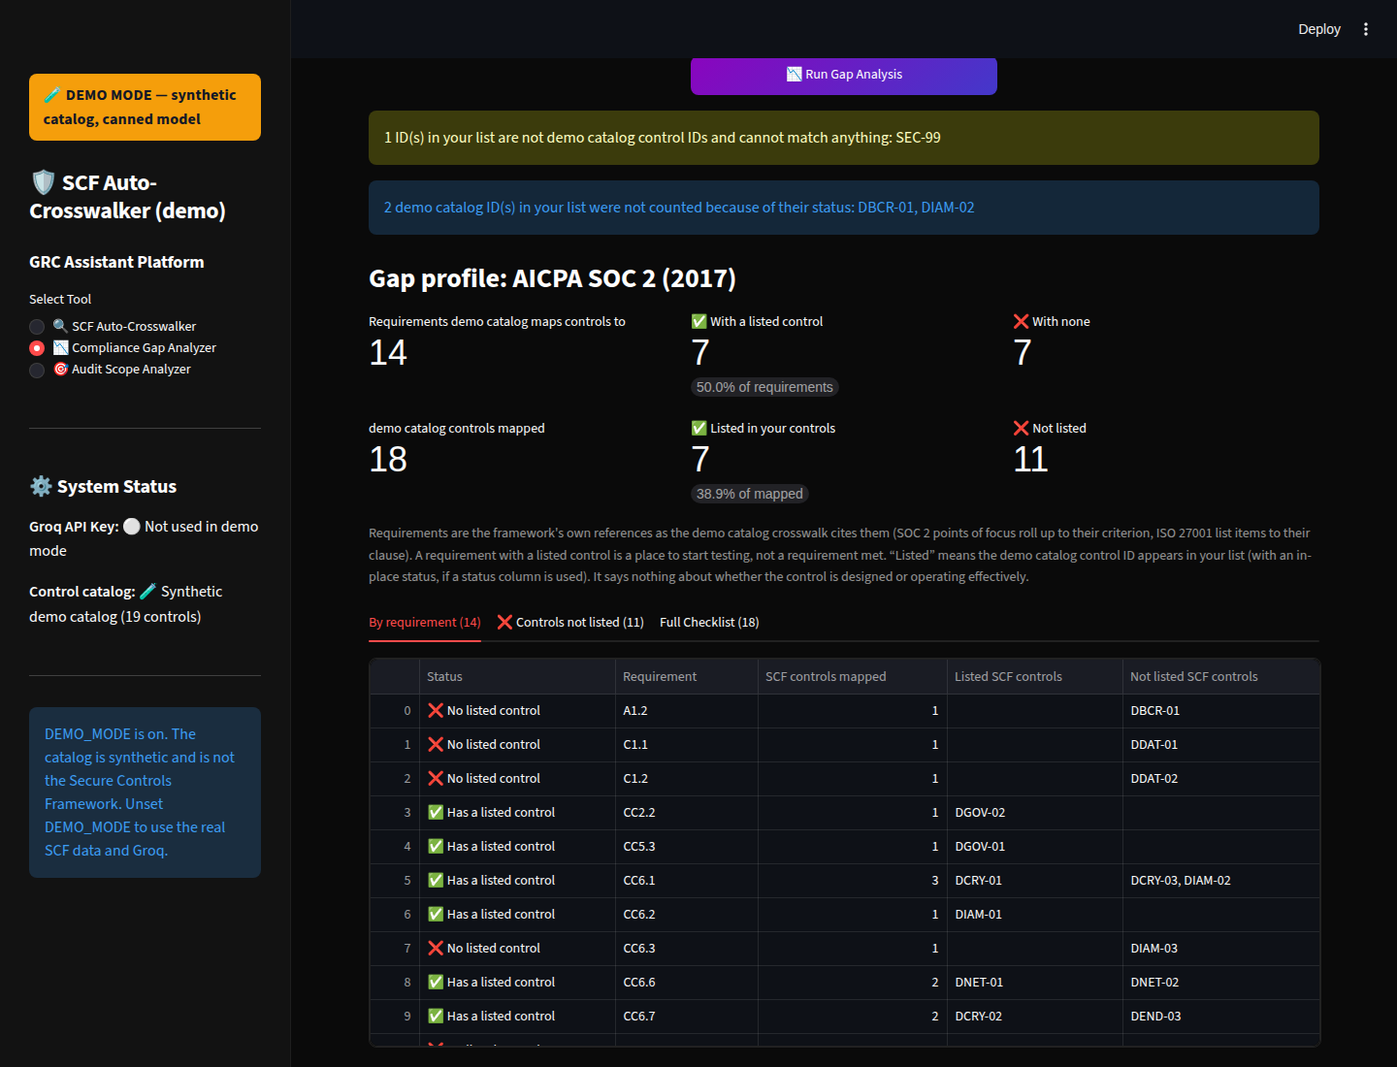
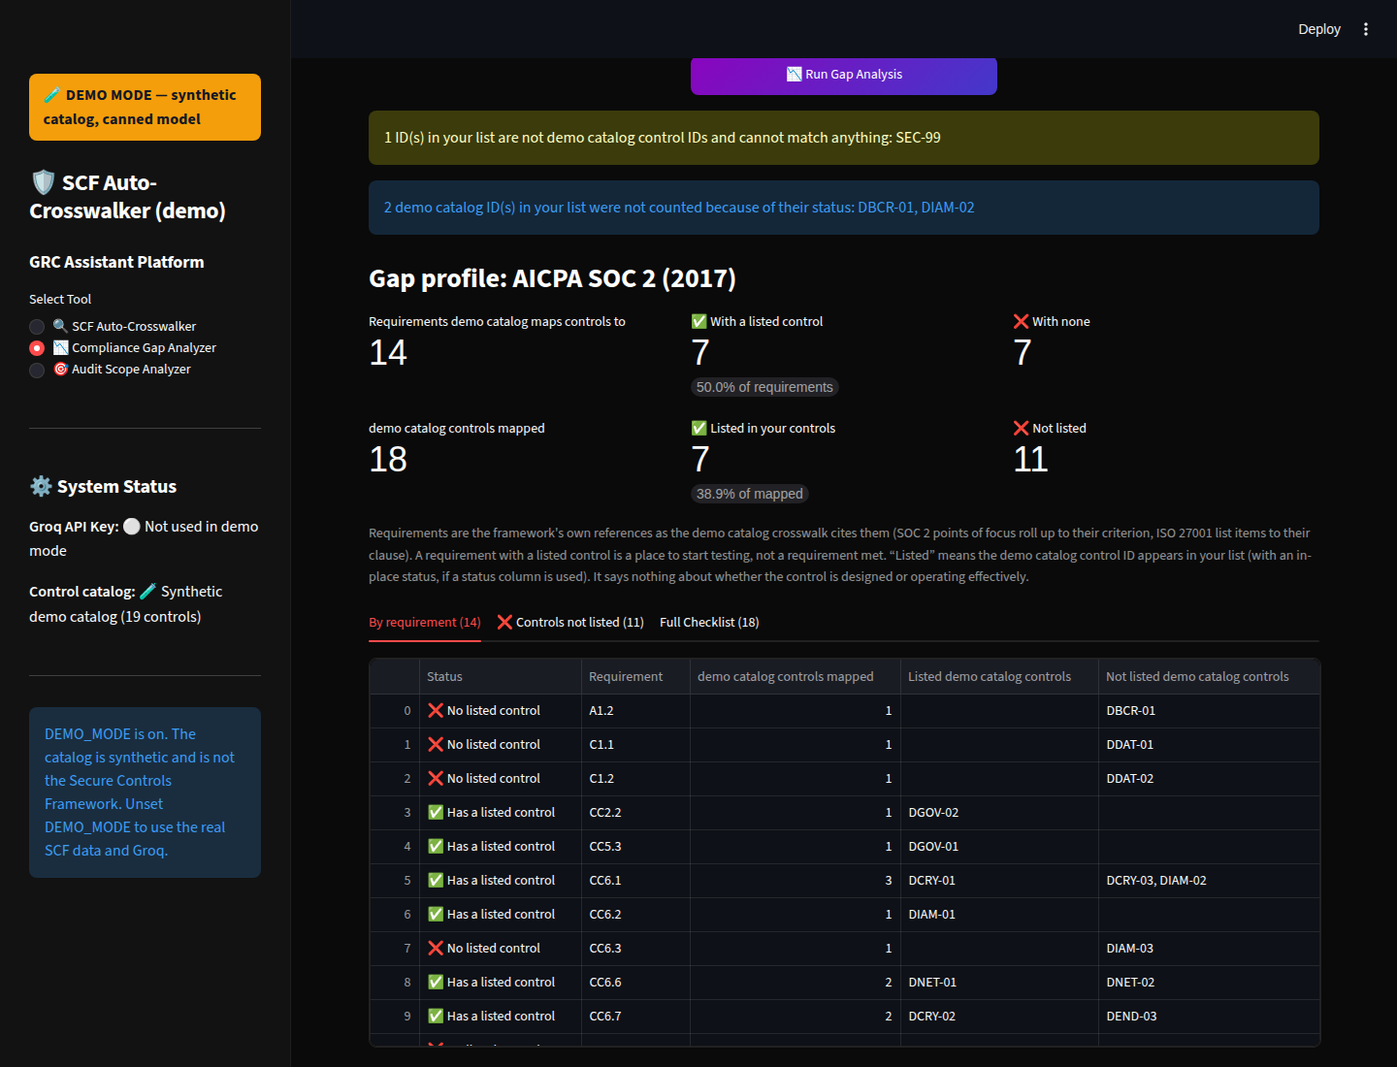
Address review: 61 SOC 2 criteria, collision-safe ID detection, doc fixes
- TSC category headings (P1.0-P8.0) are not criteria; SOC 2 now counts
  61, of which 33 are the Security common criteria.
- The ID column is chosen by the share of its values that are SCF IDs,
  so own numbering that collides with a few SCF IDs loses to a mapping
  column; analyze_gaps uses the same detection as the UI.
- The mapping sample uses non-colliding own IDs (ACME-SEC-01).
- Requirement table columns follow the catalog wording in demo mode.
- CONTRIBUTING lists the commands CI actually runs; README notes SCF's
  ISO 27001 column cites clauses 3-10 and no Annex A; CHANGELOG no
  longer calls 0.1.0 tagged.
- Screenshots recaptured.

Claude-Session: https://claude.ai/code/session_017Tj9TcAN5Yup4o7k3YzYx1

diff --git a/src/gap_analysis.py b/src/gap_analysis.py
@@ -17,6 +17,10 @@ _MULTI = re.compile(r"[\n;,|]+")
 # (CC1.1-POF1) to their criterion, ISO 27001 list items (6.1.1(e)(1)) to their
 # clause. Other frameworks keep SCF's references as written.
 _POINT_OF_FOCUS = re.compile(r"-POF\d+$", re.IGNORECASE)
+# TSC category headings ("P1.0 Privacy criteria related to notice") group
+# criteria; they are not criteria themselves.
+_TSC_HEADING = re.compile(r"^(?:CC|PI|A|C|P)\d+\.0$", re.IGNORECASE)
+_SOC2_COLUMN = re.compile(r"\bsoc ?2\b|\btsc\b")
 _LIST_ITEM = re.compile(r"(?:\([a-z0-9]{1,3}\))+$", re.IGNORECASE)
 
 # Status values counted as "in place" by default when the user picks a
@@ -57,14 +61,17 @@ def split_refs(cell: object) -> list[str]:
     return [part.strip() for part in _MULTI.split(str(cell)) if part.strip()]
 
 
-def requirement_key(column: str, ref: str) -> str:
+def requirement_key(column: str, ref: str) -> str | None:
     """
     The requirement a reference belongs to, at the level the framework is
     assessed: 'CC1.1-POF1' -> 'CC1.1' for SOC 2, '6.1.1(e)(1)' -> '6.1.1' for
-    ISO 27001. Other references are returned unchanged.
+    ISO 27001. SOC 2 category headings such as 'P1.0' return None. Other
+    references are returned unchanged.
     """
     name = column.lower()
-    if "soc 2" in name or "tsc" in name:
+    if _SOC2_COLUMN.search(name):
+        if _TSC_HEADING.match(ref):
+            return None
         return _POINT_OF_FOCUS.sub("", ref)
     if "iso" in name and "27001" in name:
         return _LIST_ITEM.sub("", ref)
@@ -91,7 +98,10 @@ def requirement_coverage(
         regs = control.get("regulations") or {}
         for col in columns:
             for ref in split_refs(regs.get(col, "")):
-                ids = mapped.setdefault((col, requirement_key(col, ref)), [])
+                key = requirement_key(col, ref)
+                if key is None:
+                    continue
+                ids = mapped.setdefault((col, key), [])
                 if control["control_id"] not in ids:
                     ids.append(control["control_id"])
 
@@ -142,7 +152,7 @@ def detect_id_column(df: pd.DataFrame, known_ids: set[str] | None = None) -> str
     """
     The column most likely to hold control IDs.
 
-    With `known_ids`, the column whose cells name the most of them wins, so a
+    With `known_ids`, the column whose IDs are most often known wins, so a
     list with its own numbering and an "SCF Mapping" column picks the mapping.
     Otherwise (or if no column names any), prefers a column whose words are
     exactly "control id", "scf id" or "scf control id", then any column
@@ -151,14 +161,16 @@ def detect_id_column(df: pd.DataFrame, known_ids: set[str] | None = None) -> str
     """
     if known_ids:
         known = {i.upper() for i in known_ids}
-        hits = {
-            str(col): sum(
-                ref.upper() in known for v in df[col].dropna() for ref in split_refs(v)
-            )
-            for col in df.columns
-        }
-        best = max(hits, key=lambda col: hits[col])
-        if hits[best]:
+        # Rank by the share of a column's IDs that are known, then by count,
+        # so own numbering that happens to collide with a few SCF IDs
+        # ("NET-01") loses to a mapping column.
+        scores = {}
+        for col in df.columns:
+            refs = [ref.upper() for v in df[col].dropna() for ref in split_refs(v)]
+            hits = sum(ref in known for ref in refs)
+            scores[str(col)] = (hits / len(refs) if refs else 0.0, hits)
+        best = max(scores, key=lambda col: scores[col])
+        if scores[best][1]:
             return best
     exact = {("control", "id"), ("scf", "id"), ("scf", "control", "id"), ("id",)}
     for col in df.columns:
@@ -205,7 +217,8 @@ def analyze_gaps(
     status; it does not check that the control is designed or operating
     effectively.
     """
-    id_column = id_column or detect_id_column(existing)
+    scf_ids = {c["control_id"].upper() for c in scf_data}
+    id_column = id_column or detect_id_column(existing, scf_ids)
 
     def ids(frame: pd.DataFrame) -> set[str]:
         # A cell may list several IDs, e.g. a mapping column "IAC-06; CRY-03".
@@ -218,8 +231,6 @@ def analyze_gaps(
         status = existing[status_column].astype(str).str.strip().str.lower()
         counted = existing[status.isin(allowed)]
     existing_ids = ids(counted)
-
-    scf_ids = {c["control_id"].upper() for c in scf_data}
 
     rows = []
     for control in scf_data:

diff --git a/tests/test_gap_analysis.py b/tests/test_gap_analysis.py
@@ -114,6 +114,12 @@ def test_split_refs_and_requirement_key():
     # Other frameworks keep SCF's reference as written.
     assert requirement_key("HIPAA", "164.308(a)(5)") == "164.308(a)(5)"
     assert requirement_key("PCI DSS 4.0.1", "12.1.1") == "12.1.1"
+    assert requirement_key("HIPAA", "164.312(a)(2)(iv)") == "164.312(a)(2)(iv)"
+    assert requirement_key("ISO 27001 2022", "3.0") == "3.0"
+    # TSC category headings are not criteria.
+    assert requirement_key(soc, "P1.0") is None
+    assert requirement_key(soc, "CC1.1") == "CC1.1"
+    assert split_refs("GOV-01 | CRY-03") == ["GOV-01", "CRY-03"]
 
 
 def test_requirement_coverage_rolls_up_and_counts_listed():
@@ -121,7 +127,7 @@ def test_requirement_coverage_rolls_up_and_counts_listed():
     scf = [
         {"control_id": "CRY-01", "regulations": {col: "CC6.1\nCC6.1-POF3"}},
         {"control_id": "CRY-02", "regulations": {col: "CC6.1\nCC6.7"}},
-        {"control_id": "GOV-01", "regulations": {col: "CC10.1"}},
+        {"control_id": "GOV-01", "regulations": {col: "CC10.1\nP1.0"}},
         {"control_id": "HRS-01", "regulations": {"HIPAA": "164.308"}},
     ]
     rows = requirement_coverage(scf, [col], {"CRY-02"})
@@ -160,6 +166,14 @@ def test_own_numbering_with_a_mapping_column(scf_sample):
     )
     known = {c["control_id"] for c in scf_sample}
     assert detect_id_column(df, known) == "SCF Mapping"
+    # Own numbering that collides with one known ID loses to the mapping column.
+    collide = pd.DataFrame(
+        {
+            "Control ID": ["CRY-01", "ACME-2", "ACME-3"],
+            "Mapping": ["IAC-06", "", "GOV-01"],
+        }
+    )
+    assert detect_id_column(collide, known) == "Mapping"
     # No column names a known ID: fall back to the header rules.
     assert detect_id_column(df, {"ZZZ-99"}) == "Control ID"
     report = analyze_gaps(scf_sample, ["AICPA SOC 2 (2017)"], df, "SCF Mapping")

diff --git a/src/ui/pages/gap_analyzer.py b/src/ui/pages/gap_analyzer.py
@@ -73,7 +73,7 @@ def render(labels: Labels, lab_data_dir: str) -> None:
             f"Upload a CSV of your current controls. Pick the column that holds **{labels.catalog_short} control IDs** "
             f"(e.g. `{labels.example_id}`): the ID column if you number controls the {labels.catalog_short} way, or a column "
             f"that maps each of your controls to {labels.catalog_short} IDs. A cell can hold several IDs, separated "
-            "by `;`, `,` or new lines."
+            "by `;`, `,`, `|` or new lines."
         )
         uploaded_csv = st.file_uploader("Upload CSV", type=["csv"], key="gap_up")
 
@@ -231,7 +231,14 @@ def render(labels: Labels, lab_data_dir: str) -> None:
             )
 
             file_stub = gap_state["framework"].replace(" ", "_")
-            df_reqs = pd.DataFrame(report.requirements)
+            # Column names follow the catalog in use (SCF or the demo catalog).
+            df_reqs = pd.DataFrame(report.requirements).rename(
+                columns={
+                    "SCF controls mapped": f"{labels.catalog_short} controls mapped",
+                    "Listed SCF controls": f"Listed {labels.catalog_short} controls",
+                    "Not listed SCF controls": f"Not listed {labels.catalog_short} controls",
+                }
+            )
             tab_reqs, tab_gaps, tab_all = st.tabs(
                 [
                     f"By requirement ({len(df_reqs)})",

diff --git a/README.md b/README.md
@@ -8,7 +8,7 @@ Before an auditor can test anything, they have to answer a mapping question: whi
 
 - **How it works.** Embedding search narrows the SCF to a shortlist, a language model picks from it, and every answer is checked against the shortlist, so only real SCF controls, with SCF's own text, reach the screen. Results export to CSV and OSCAL.
 - **How well the search works.** For 221 AWS Security Hub control definitions, the shortlist of 50 contains an SCF control that AWS's and SCF's published NIST SP 800-53 mappings link to it in 62% of cases (keyword search: 46%; chance: 23%). That is a ceiling on what the model can get right, not an accuracy figure; the model's own picks have not been scored yet ([Evaluation](#evaluation)).
-- **Gap analysis without a model.** A control list is checked against a framework per requirement: with the sample list on SCF 2026.3, 8 of the 69 SOC 2 criteria SCF maps to have a control the list marks as implemented.
+- **Gap analysis without a model.** A control list is checked against a framework per requirement: with the sample list on SCF 2026.3, 8 of the 61 SOC 2 criteria SCF maps to have a control the list marks as implemented.
 
 The result is a set of suggestions for a person to accept or reject, not a mapping of record.
 
@@ -87,9 +87,9 @@ Audit Scope Analyzer on the lab scope: suggested domains and controls to test, t
 
 **And on real data.** The Gap Analyzer needs no language model, so it can run against the real SCF release without a Groq key. This is SCF 2026.3 (1,591 controls, from the official SCF repository) against the SOC 2 column, for `lab_data/sample_controls_with_scf_mapping.csv`, a control list with its own numbering and a column mapping each control to SCF IDs:
 
-![Gap Analyzer on the real SCF 2026.3 release: 8 of 69 SOC 2 criteria have a listed control; 6 of 407 mapped SCF controls are listed](docs/screenshots/gap-analyzer-real-scf-2026-3.png)
+![Gap Analyzer on the real SCF 2026.3 release: 8 of 61 SOC 2 criteria have a listed control; 6 of 407 mapped SCF controls are listed](docs/screenshots/gap-analyzer-real-scf-2026-3.png)
 
-SCF cites 69 SOC 2 criteria; 8 have at least one SCF control the sample lists as implemented. Counted by SCF control instead, 6 of the 407 mapped controls are listed, which is why the report leads with requirements. The analyzer picked the `SCF Mapping` column because it names the most SCF IDs, and three mapped controls are not counted because their rows are "Partially implemented" or "Planned". Captured with `MODE=real node scripts/capture_screenshots.mjs`. The table shows framework references and SCF control IDs only, no SCF control text. SCF © Secure Controls Framework (securecontrolsframework.com), CC BY-ND 4.0. The SCF data itself is not stored in this repository.
+SCF cites 61 SOC 2 criteria across all five categories (33 of them in Security, the common criteria many SOC 2 reports are scoped to); 8 have at least one SCF control the sample lists as implemented. Counted by SCF control instead, 6 of the 407 mapped controls are listed, which is why the report leads with requirements. The analyzer picked the `SCF Mapping` column because it names the most SCF IDs, and three mapped controls are not counted because their rows are "Partially implemented" or "Planned". Captured with `MODE=real node scripts/capture_screenshots.mjs`. The table shows framework references and SCF control IDs only, no SCF control text. SCF © Secure Controls Framework (securecontrolsframework.com), CC BY-ND 4.0. The SCF data itself is not stored in this repository.
 
 [`lab_data/sample_outputs/`](lab_data/sample_outputs) holds raw outputs from earlier runs with the real SCF and a Groq model, and [`lab_data/README.md`](lab_data/README.md) annotates them. They record the failure modes the current validation was built for: a scope analysis that returned only NIST 800-53 IDs, and control descriptions rewritten by the model.
 
@@ -165,7 +165,8 @@ graph TD
 The Gap Analyzer (`src/gap_analysis.py`) is deterministic, so the same input always gives the same answer.
 - It lists the SCF controls that have an entry in the chosen crosswalk column, and checks whether each control ID appears in your CSV.
 - It also inverts the column: for each framework requirement SCF cites, it shows the SCF controls mapped to it and whether any is listed. SOC 2 points of focus roll up to their criterion and ISO 27001 list items to their clause; other references stay as SCF writes them. A requirement with a listed control is a place to start testing, not a requirement met.
-- The ID column is the one that names the most SCF IDs, so a list with its own numbering works through a mapping column; a cell can hold several IDs.
+- The ID column is the one whose values are most often SCF IDs, so a list with its own numbering works through a mapping column; a cell can hold several IDs.
+- Coverage is only as complete as SCF's crosswalk column. For example, SCF 2026.3's ISO 27001 column cites clauses 3 to 10 and no Annex A controls, and SOC 2 category headings (`P1.0`) are not counted as criteria.
 - When SCF has more than one column for a framework (for example, two ISO 27001 editions), you pick one.
 - IDs in your CSV that are not SCF IDs are listed, so they don't fail silently.
 - If the CSV has a status column, you can count only rows with an in-place status ("Not Implemented", "Partially implemented" and "Planned" are excluded by default).

diff --git a/DECISIONS.md b/DECISIONS.md
@@ -175,14 +175,14 @@ Everything else is the production code on demo data: the prompts, candidate retr
 
 **Status:** Accepted (extends ADR-006)
 
-**Context.** The first Gap Analyzer counted SCF controls. On SCF 2026.3, 407 SCF controls map to SOC 2, so a list that names two of them showed "405 not listed". A SOC 2 assessment is organised by Trust Services Criteria, of which SCF cites 69, and a reviewer reading "405 gaps" would overstate the work by several times. Real control inventories also rarely use SCF IDs as their own numbering; when they are mapped to the SCF, the mapping sits in a separate column, often with several SCF IDs per control.
+**Context.** The first Gap Analyzer counted SCF controls. On SCF 2026.3, 407 SCF controls map to SOC 2, so a list that names two of them showed "405 not listed". A SOC 2 assessment is organised by Trust Services Criteria, of which SCF cites 61, and a reviewer reading "405 gaps" would overstate the work by several times. Real control inventories also rarely use SCF IDs as their own numbering; when they are mapped to the SCF, the mapping sits in a separate column, often with several SCF IDs per control.
 
 **Decision.**
 - `requirement_coverage` (`src/gap_analysis.py`) inverts the crosswalk column: for each framework reference SCF cites, it lists the SCF controls mapped to it and which of them are listed. The report leads with "requirements with a listed control" and keeps the SCF-control view as a second tab.
-- References are rolled up only where the framework's own structure makes the level unambiguous: SOC 2 points of focus (`CC1.1-POF1`) to their criterion, ISO 27001 lettered list items (`6.1.1(e)(1)`) to their clause. Other frameworks keep SCF's references as written (PCI DSS `12.1.1`, NIST CSF `GV.SC-01`, HIPAA `164.308(a)(5)`), since rolling those up would merge requirements that are assessed separately.
-- The ID column is detected by which column names the most SCF IDs, falling back to the header rules, and a cell may hold several IDs separated by `;`, `,`, `|` or new lines. A list with its own numbering and an SCF mapping column therefore works without reformatting.
+- References are rolled up only where the framework's own structure makes the level unambiguous: SOC 2 points of focus (`CC1.1-POF1`) to their criterion (category headings such as `P1.0` are dropped, as they are not criteria), ISO 27001 lettered list items (`6.1.1(e)(1)`) to their clause. Other frameworks keep SCF's references as written (PCI DSS `12.1.1`, NIST CSF `GV.SC-01`, HIPAA `164.308(a)(5)`), since rolling those up would merge requirements that are assessed separately.
+- The ID column is detected by the share of its values that are SCF IDs (then by their count), so own numbering that happens to collide with a few SCF IDs loses to a mapping column, falling back to the header rules, and a cell may hold several IDs separated by `;`, `,`, `|` or new lines. A list with its own numbering and an SCF mapping column therefore works without reformatting.
 
 **Consequences.**
-- On SCF 2026.3 with `lab_data/sample_controls_with_scf_mapping.csv` (in-place rows only), 8 of 69 SOC 2 criteria have a listed control, which is the number an assessor would start from.
+- On SCF 2026.3 with `lab_data/sample_controls_with_scf_mapping.csv` (in-place rows only), 8 of 61 SOC 2 criteria have a listed control, which is the number an assessor would start from. 33 of the 61 are the Security (common) criteria; a report scoped to Security alone should read those rows.
 - A requirement with a listed control is not a requirement met. SCF's mappings vary in strength (its STRM relationships are not in the crosswalk columns), and one control rarely satisfies a whole criterion. The UI says so under the metrics; a requirement with none is still a clear gap.
 - The requirement list is what SCF cites, not the framework's full list. A requirement SCF maps nothing to does not appear, and the count can include references at more than one level (NIST CSF cites functions, categories and subcategories).

diff --git a/lab_data/README.md b/lab_data/README.md
@@ -10,7 +10,7 @@ Sample inputs for trying the three tools, and raw outputs from earlier runs. The
 | `aws_securityhub_finding.json` | Crosswalker (batch mode) | One finding in AWS Security Hub (ASFF) export format, for control `CloudFront.3` (CloudFront distributions should require encryption in transit). Earlier versions of this file carried the ID `S3.8` by mistake; the sample output below was generated from that version. |
 | `sample_audit_scope.txt` | Audit Scope Analyzer | A short audit scope narrative. |
 | `sample_existing_controls.csv` | Gap Analyzer | A control list that uses its **own** numbering (`SEC-01`, `IAM-01`, …). Only IDs that happen to be SCF IDs can match, so the Gap Analyzer flags the rest as "not SCF control IDs". It also shows that the tool compares IDs only: `CRY-02` is named "Data Encryption in Transit" here, and the tool does not check that the name matches SCF's `CRY-02`. |
-| `sample_controls_with_scf_mapping.csv` | Gap Analyzer | The same kind of list with its own numbering, plus an `SCF Mapping` column that maps each control to one or more SCF IDs (`GOV-01; GOV-02`), which is how real inventories usually record a crosswalk. The analyzer detects that column because it names the most SCF IDs. The mappings are illustrative, chosen by the author from SCF 2026.3 control descriptions, not an authoritative crosswalk. Two rows are "Partially implemented" or "Planned", so the status filter has something to exclude. |
+| `sample_controls_with_scf_mapping.csv` | Gap Analyzer | The same kind of list with its own numbering, plus an `SCF Mapping` column that maps each control to one or more SCF IDs (`GOV-01; GOV-02`), which is how real inventories usually record a crosswalk. Its own IDs (`ACME-SEC-01`, …) do not collide with SCF IDs, and the analyzer detects the mapping column because its values are SCF IDs. The mappings are illustrative, chosen by the author from SCF 2026.3 control descriptions, not an authoritative crosswalk. Two rows are "Partially implemented" or "Planned", so the status filter has something to exclude. |
 | `demo_existing_controls.csv` | Gap Analyzer in `DEMO_MODE` | A control list for the synthetic demo catalog (`DCRY-01`, `DIAM-02`, …; see `src/demo.py`). It includes one ID that is not in the catalog (`SEC-99`) and rows with "Partially implemented" and "Planned" statuses, so the demo shows the unknown-ID warning and the status filter. Against the real SCF it matches nothing. |
 
 ## Sample outputs (`sample_outputs/`)

diff --git a/CASE_STUDY.md b/CASE_STUDY.md
@@ -27,7 +27,7 @@ A third tool, the Gap Analyzer, uses no model at all. It takes an existing contr
 
 - **The model is not a source of truth.** It proposes IDs; the framework supplies the content. This came from an early sample run in which the Scope Analyzer returned only NIST SP 800-53 IDs (`AC-1`, `SC-8`, …) for an SCF test plan, and the Crosswalker displayed control descriptions the model had rewritten. Both now fail validation visibly instead of reaching the page.
 - **Claims are scoped to what the tool can know.** A control in the gap report is *listed*, not *covered*: the tool sees an ID in a spreadsheet, not a control operating. Confidence is labeled as the model's own, uncalibrated number. The OSCAL export records every map as `intersects-with`, the weakest positive relationship in NIST IR 8477, because the tool does not establish subset, superset or equality.
-- **Gaps are counted the way an assessor counts them.** The first version counted SCF controls: 405 of the 407 mapped to SOC 2 were "not listed" for the sample list. An assessor works from the 69 criteria SCF cites, so the report now leads with those (8 have a listed control for the mapped sample) and treats a criterion with a listed control as a place to start testing, not as met.
+- **Gaps are counted the way an assessor counts them.** The first version counted SCF controls: 405 of the 407 mapped to SOC 2 were "not listed" for the sample list. An assessor works from the 61 criteria SCF cites, so the report now leads with those (8 have a listed control for the mapped sample) and treats a criterion with a listed control as a place to start testing, not as met.
 - **Framework data is handled under its license.** The SCF is licensed CC BY-ND 4.0, which does not allow redistributing modified copies, so the repository does not host SCF data. The app downloads the official release and derives its working copy locally.
 - **Data leaving the machine is disclosed.** Submitted text goes to Groq's API; the UI says so next to the submit button, and Security Hub findings are reduced to their descriptive fields before anything is sent.
 

diff --git a/CHANGELOG.md b/CHANGELOG.md
@@ -5,8 +5,8 @@ Notable changes. Dates are UTC.
 ## [Unreleased]
 
 ### Added
-- Gap Analyzer reports coverage per framework requirement (for example, 8 of 69 SOC 2 criteria with a listed control), with a *By requirement* tab and CSV. SOC 2 points of focus roll up to their criterion and ISO 27001 list items to their clause (ADR-011).
-- Control lists with their own numbering work through an SCF mapping column. The ID column is detected by which column names the most SCF IDs, and a cell can hold several IDs. New sample `lab_data/sample_controls_with_scf_mapping.csv`.
+- Gap Analyzer reports coverage per framework requirement (for example, 8 of 61 SOC 2 criteria with a listed control), with a *By requirement* tab and CSV. SOC 2 points of focus roll up to their criterion and ISO 27001 list items to their clause (ADR-011).
+- Control lists with their own numbering work through an SCF mapping column. The ID column is detected by the share of its values that are SCF IDs, and a cell can hold several IDs. New sample `lab_data/sample_controls_with_scf_mapping.csv`.
 - `CONTRIBUTING.md`.
 
 ### Changed
@@ -15,7 +15,7 @@ Notable changes. Dates are UTC.
 
 ## [0.1.0] - 2026-09-27
 
-First tagged release.
+The state of `main` at commit `9531561`.
 
 ### Added
 - Three tools: SCF Auto-Crosswalker (policy text, documents and Security Hub findings), Compliance Gap Analyzer, Audit Scope Analyzer.

diff --git a/CONTRIBUTING.md b/CONTRIBUTING.md
@@ -17,10 +17,10 @@ The real tools need a Groq key in `.env` (see `.env.example`) and the SCF downlo
 Run what CI runs:
 
 ```bash
+uv sync --frozen              # fails if uv.lock is out of date
 uv run pre-commit run --all-files
-uv run pyright
-uv run pytest                 # offline; fails under 85% coverage
-uv lock --check
+uv run pyright src/
+uv run pytest tests/ --cov=src --cov-fail-under=85   # offline
 ```
 
 Tests must not call Groq, Hugging Face or the SCF download; use the fakes in `tests/conftest.py` (see ADR-007 in [DECISIONS.md](DECISIONS.md)).
